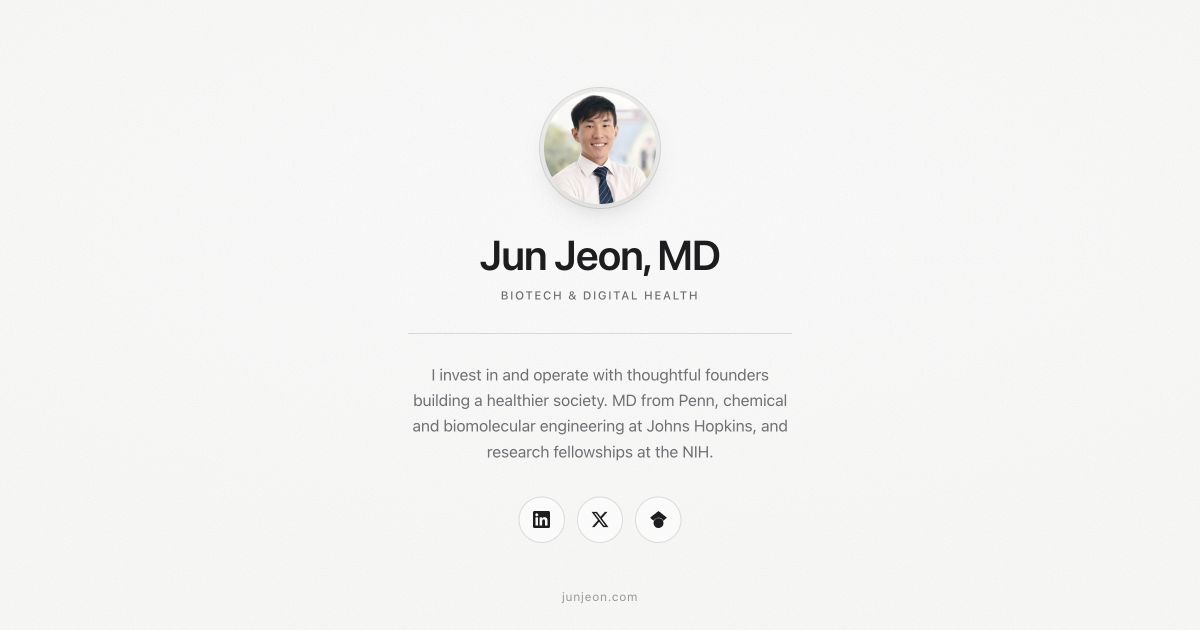
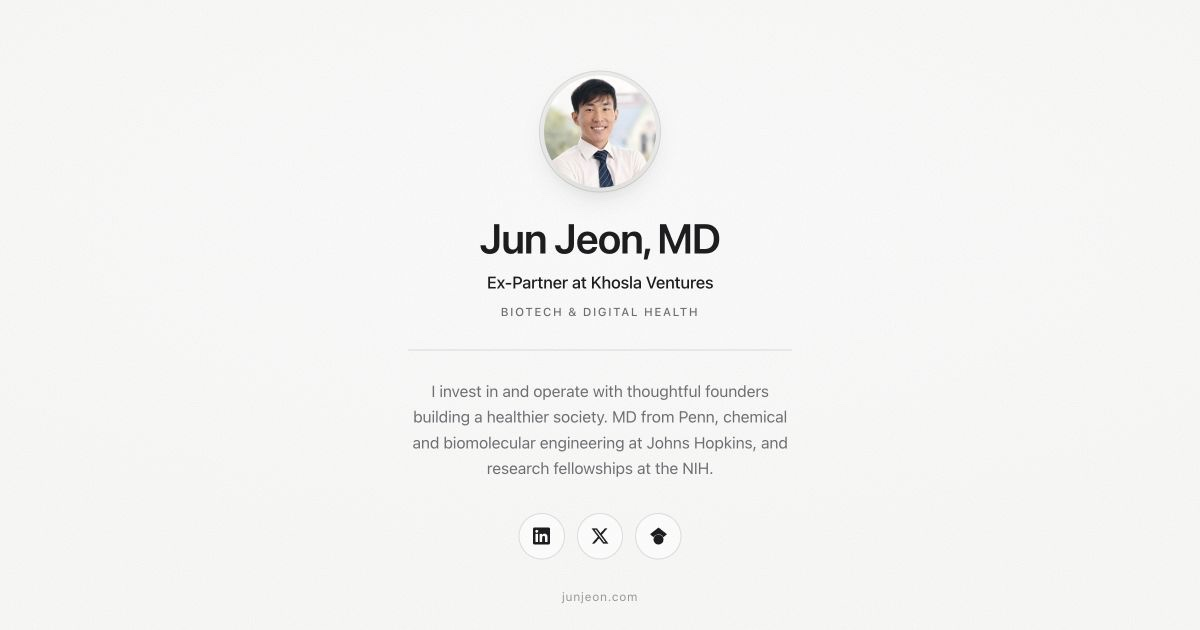
Add Ex-Partner at Khosla Ventures

diff --git a/index.html b/index.html
@@ -6,7 +6,7 @@
     <title>Jun Jeon, MD</title>
     <meta
       name="description"
-      content="Jun Jeon, MD. Investing in and operating with thoughtful founders in biotech and digital health."
+      content="Jun Jeon, MD. Ex-Partner at Khosla Ventures, investing in and operating with thoughtful founders in biotech and digital health."
     />
     <link rel="canonical" href="https://junjeon.com/" />
     <meta name="theme-color" content="#fcfcfb" />
@@ -16,7 +16,7 @@
     <meta property="og:title" content="Jun Jeon, MD" />
     <meta
       property="og:description"
-      content="Investing in and operating with thoughtful founders in biotech and digital health."
+      content="Ex-Partner at Khosla Ventures, investing in and operating with thoughtful founders in biotech and digital health."
     />
     <meta property="og:image" content="https://junjeon.com/images/og.jpg" />
     <meta property="og:image:width" content="1200" />
@@ -33,7 +33,7 @@
       href="https://fonts.googleapis.com/css2?family=Inter:wght@400;500;600&display=swap"
     />
     <!-- Bump ?v= when styles.css changes so browsers skip their cached copy. -->
-    <link rel="stylesheet" href="styles.css?v=4" />
+    <link rel="stylesheet" href="styles.css?v=5" />
     <script>
       if (location.pathname === "/index.html") history.replaceState(null, "", "/");
     </script>
@@ -49,6 +49,7 @@
       />
 
       <h1>Jun Jeon, MD</h1>
+      <p class="role">Ex-Partner at Khosla Ventures</p>
       <p class="tagline">Biotech &amp; digital health</p>
 
       <p class="bio">

diff --git a/styles.css b/styles.css
@@ -60,6 +60,7 @@ body::before {
 .intro > :nth-child(3) { animation-delay: 140ms; }
 .intro > :nth-child(4) { animation-delay: 200ms; }
 .intro > :nth-child(5) { animation-delay: 260ms; }
+.intro > :nth-child(6) { animation-delay: 320ms; }
 
 .portrait {
   display: block;
@@ -84,8 +85,16 @@ h1 {
   letter-spacing: -0.025em;
 }
 
+.role {
+  margin: 0.5rem 0 0;
+  color: var(--ink);
+  font-size: 1.05rem;
+  font-weight: 500;
+  letter-spacing: -0.01em;
+}
+
 .tagline {
-  margin: 0.55rem 0 0;
+  margin: 0.45rem 0 0;
   color: var(--ink-soft);
   font-size: 0.72rem;
   font-weight: 500;
